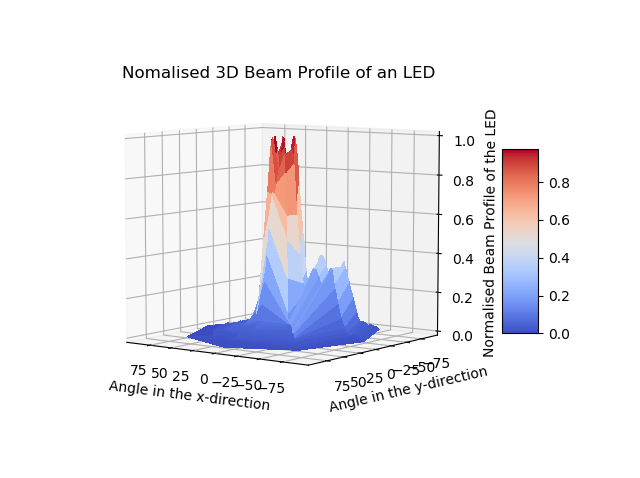
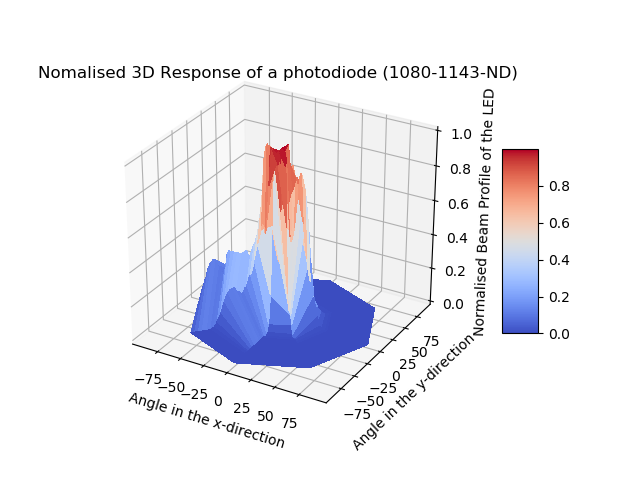
updated for cosine response and new databases of photodiodes

diff --git a/Cosine Response/Database_Update_Diode.py b/Cosine Response/Database_Update_Diode.py
@@ -4,14 +4,14 @@ import time
 from sqlalchemy import create_engine
 
 
-def write_to_database(product_code , wavelength 
+def write_to_database_diode(product_code 
                       , input_angle_1 , Params1 , RMSE1 , Power1
                       , input_angle_2 , Params2 , RMSE2 , Power2
                       , input_angle_3 , Params3 , RMSE3 , Power3
                       , input_angle_4 , Params4 , RMSE4 , Power4
                       , model1, model2, model3, model4
                       ) :
-    engine = create_engine("postgresql://postgres:uv-sintec@localhost:5432/LED")
+    engine = create_engine("postgresql://postgres:uv-sintec@localhost:5432/Photodiode")
     Date , Time = date_time()
 
     param1_1 = [item[0] for item in Params1]
@@ -35,7 +35,7 @@ def write_to_database(product_code , wavelength
         param4_2 = [item[3] for item in Params2]
         param4_3 = [item[3] for item in Params3]
         param4_4 = [item[3] for item in Params4]
-        table = [(Date) , (Time) , (product_code) , (wavelength) 
+        table = [(Date) , (Time) , (product_code) 
         , (input_angle_1) , (RMSE1) , (param1_1) , (param2_1) , (param3_1) , (param4_1) , (Power1)
         , (input_angle_2) , (RMSE2) , (param1_2) , (param2_2) , (param3_2) , (param4_2) , (Power2)
         , (input_angle_3) , (RMSE3) , (param1_3) , (param2_3) , (param3_3) , (param4_3) , (Power3)
@@ -44,14 +44,14 @@ def write_to_database(product_code , wavelength
         ]
     except :
         #table = [(Date) , (Time) , (product_code) , (wavelength) , (model) , (RMSE) , (param1) , (param2) , (param3) , ([]) , (Power)]
-        table = [(Date) , (Time) , (product_code) , (wavelength) 
+        table = [(Date) , (Time) , (product_code)  
         , (input_angle_1) , (RMSE1) , (param1_1) , (param2_1) , (param3_1) , ([]) , (Power1)
         , (input_angle_2) , (RMSE2) , (param1_2) , (param2_2) , (param3_2) , ([]) , (Power2)
         , (input_angle_3) , (RMSE3) , (param1_3) , (param2_3) , (param3_3) , ([]) , (Power3)
         , (input_angle_4) , (RMSE4) , (param1_4) , (param2_4) , (param3_4) , ([]) , (Power4)
         , (model1) , (model2) , (model3) , (model4)
         ]
-    df1 = pd.DataFrame([table], columns=["date" , "time" , "product_code" , "wavelength" 
+    df1 = pd.DataFrame([table], columns=["date" , "time" , "product_code" 
                                          ,"input_angle_1" ,"rmse_angle_1", "param1_angle_1" , "param2_angle_1" , "param3_angle_1" , "param4_angle_1" , "normalized_power_angle_1"
                                          ,"input_angle_2" ,"rmse_angle_2", "param1_angle_2" , "param2_angle_2" , "param3_angle_2" , "param4_angle_2" , "normalized_power_angle_2"
                                          ,"input_angle_3" ,"rmse_angle_3", "param1_angle_3" , "param2_angle_3" , "param3_angle_3" , "param4_angle_3" , "normalized_power_angle_3"
@@ -59,13 +59,13 @@ def write_to_database(product_code , wavelength
                                          , "model_angle_1" , "model_angle_2" , "model_angle_3" , "model_angle_4" ])
 
 
-    df1.to_sql('led_data' , con = engine , if_exists = "append" , index = False)
-    df = pd.read_sql_query('select * from "led_data"' , con = engine)
+    df1.to_sql('photodiode_data' , con = engine , if_exists = "append" , index = False)
+    df = pd.read_sql_query('select * from "photodiode_data"' , con = engine)
 
     index = []
     count = 0
-    for item in df.duplicated(["product_code" , "wavelength"]):
-        if [df.loc[count][2],df.loc[count][3] ] == [product_code , wavelength] :
+    for item in df.duplicated(["product_code"]):
+        if [df.loc[count][2],df.loc[count][3] ] == [product_code] :
                 index.append(count)
         count += 1
 
@@ -87,7 +87,7 @@ def write_to_database(product_code , wavelength
                 check = False
 
 
-    df.to_sql('led_data' , con = engine , if_exists = "replace" , index = False)
+    df.to_sql('photodiode_data' , con = engine , if_exists = "replace" , index = False)
     
     return df
 
@@ -105,10 +105,10 @@ def Table_Search():
     wavelength = str(input("Enter Manufacturer Wavelength in nm :")).replace(" ", "")+"nm"
     product_code = str(input("Enter Full Product Code :")).replace(" ", "")
     
-    engine = create_engine("postgresql://postgres:uv-sintec@localhost:5432/LED")
+    engine = create_engine("postgresql://postgres:uv-sintec@localhost:5432/Photodiode")
     
-    df = pd.read_sql_query('select * from "led_data"' , con = engine)
-    df1 = df.loc[(df["wavelength"] == wavelength) & (df["product_code"] == product_code)] 
+    df = pd.read_sql_query('select * from "photodiode_data"' , con = engine)
+    df1 = df.loc[(df["product_code"] == product_code)] 
     
     return df1
 
@@ -131,9 +131,9 @@ def row_delete() :
     
     index = int(input("Select Column You Wish to delete :"))
     
-    engine = create_engine("postgresql://postgres:uv-sintec@localhost:5432/LED")
-    df = pd.read_sql_query('select * from "led_data"' , con = engine)
+    engine = create_engine("postgresql://postgres:uv-sintec@localhost:5432/Photodiode")
+    df = pd.read_sql_query('select * from "photodiode_data"' , con = engine)
     
     df = df.drop(index).reset_index(drop = True)
     
-    df.to_sql('led_data' , con = engine , if_exists = "replace" , index = False)
+    df.to_sql('photodiode_data' , con = engine , if_exists = "replace" , index = False)

diff --git a/Cosine Response/Cosine Response.py b/Cosine Response/Cosine Response.py
@@ -7,18 +7,18 @@ import pandas as pd
 import numpy as np
 import Gaussian_Power_Model
 import Cosine_Power_Model
-import Database_Update
+import Database_Update_Diode
 import centering
 
-wavelength = str(input("Enter Manufacturer Wavelength in nm :")).replace(" ", "")+"nm"
-product_code = str(input("Enter Full Product Code:")).replace(" ", "")
+#wavelength = str(input("Enter Manufacturer Wavelength in nm :")).replace(" ", "")+"nm"
+product_code = str(input("Enter Full Product Code of the photodiode:")).replace(" ", "")
 noofsweeps = int(input("Enter Number of Sweeps Completed in integers:"))
 boxcar = int(input("Please Enter Boxcar Value :"))
-filename = wavelength + '_' + product_code + r'_sweeps'+str(noofsweeps)+ '_boxcar'+ str(boxcar)+'_.xlsx'
+filename = product_code + r'_sweeps'+str(noofsweeps)+ '_boxcar'+ str(boxcar)+'_.xlsx'
 print("")
 print("The filename is %s" % filename)
 print("")
-LEDAngles = []
+DiodeAngles = []
 noofangles = 4
 normalised = pd.DataFrame()
 #LEDAngles = pd.DataFrame()
@@ -26,7 +26,7 @@ lengthIndex=400
 norm = pd.DataFrame()
 difAngle = 0
 for difAngle in range (0, noofangles):
-    LEDAngle = int(input("Please Enter Angle of LED:"))
+    DiodeAngle = int(input("Please Enter Angle of Photodiode:"))
     dir = '1'
     reset ='3'
     ser = serial.Serial("COM4", 9600, timeout = 5)
@@ -99,8 +99,7 @@ for difAngle in range (0, noofangles):
 
     #normalised = np.array(difAngle, newnormalised) 
     norm[difAngle] = newnormalised
-    #LEDAngles = LEDAngles.append(LEDAngle)
-    LEDAngles.append(LEDAngle)
+    DiodeAngles.append(DiodeAngle)
     
 X1 = np.zeros((noofangles+1,399))
 Y1 = np.zeros((noofangles+1,399))
@@ -109,8 +108,8 @@ norm = np.transpose(norm)
 
 
 for k in range (0, noofangles):
-    X1[k] = angle*np.cos(np.deg2rad(LEDAngles[k]))
-    Y1[k] = angle*np.sin(np.deg2rad(LEDAngles[k]))
+    X1[k] = angle*np.cos(np.deg2rad(DiodeAngles[k]))
+    Y1[k] = angle*np.sin(np.deg2rad(DiodeAngles[k]))
 
 X1[noofangles] = np.flip(X1[0])
 Y1[noofangles] = np.flip(Y1[0])
@@ -125,7 +124,7 @@ fig = plt.figure()
 ax = plt.axes(projection='3d')
 surf = ax.plot_surface(X1, Y1, Z1, cmap=cm.coolwarm,
                        linewidth=0, antialiased=False)
-ax.set_title('Nomalised 3D Beam Profile of an LED')
+ax.set_title('Nomalised 3D Response of a photodiode ('+ product_code +')')
 ax.set_xlabel('Angle in the x-direction')
 ax.set_ylabel('Angle in the y-direction')
 ax.set_zlabel('Normalised Beam Profile of the LED')
@@ -159,12 +158,13 @@ add_model = str(input("Do you want to add this model to the Database (y/n) :")).
 check = False
 while check == False :
     if add_model.lower() == "y" :
-        Database_Update.write_to_database(product_code , wavelength 
-                                          , LEDAngles[0] , Param_array[0] , RMSE_array[0] , norm[0].tolist()
-                                          , LEDAngles[1] , Param_array[1] , RMSE_array[1] , norm[1].tolist()
-                                          , LEDAngles[2] , Param_array[2] , RMSE_array[2] , norm[2].tolist()
-                                          , LEDAngles[3] , Param_array[3] , RMSE_array[3] , norm[3].tolist()
-                                          , model_array[0] , model[1] , model[2] , model[3])
+        Database_Update_Diode.write_to_database_diode(product_code 
+                                          , DiodeAngles[0] , Param_array[0] , RMSE_array[0] , norm[0].tolist()
+                                          , DiodeAngles[1] , Param_array[1] , RMSE_array[1] , norm[1].tolist()
+                                          , DiodeAngles[2] , Param_array[2] , RMSE_array[2] , norm[2].tolist()
+                                          , DiodeAngles[3] , Param_array[3] , RMSE_array[3] , norm[3].tolist()
+                                          , model_array[0] , model_array[1] , model_array[2] , model_array[3]
+                                          )
         check = True
     elif add_model.lower() == "n" :
         check = True
@@ -173,7 +173,7 @@ while check == False :
         print("Error please select y/n")
         check = False
         
-print (LEDAngles)
+print (DiodeAngles)
 
 
 
